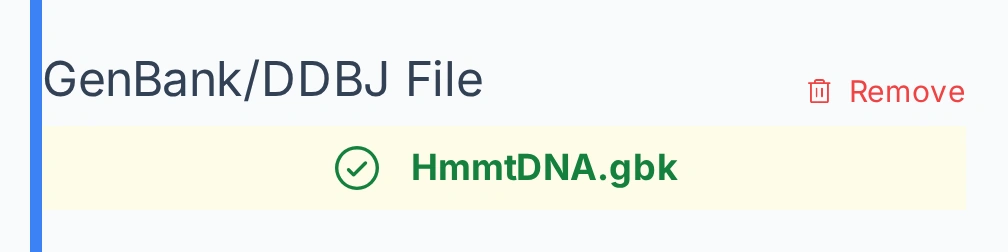
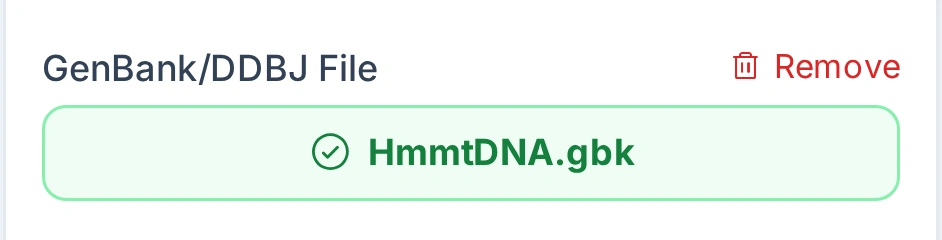
Rename three Gallery table rows to UI labels and retake two stale upload images
Rows 'Default CDS color' and 'Definition line: ...' in the BGC tutorial now use
the control paths shown in the UI, with the Playwright spec updated to match.
Retakes HmmtDNA_basic_circular manual-02-01 (old yellow upload zone) and
hepatoplasmataceae_orthogroup manual-02-01 (Applies on Generate pill).

Changed region(s): [[0.0308, 0.0, 0.9544, 1.0], [0.3079, 0.5542, 0.6773, 0.7583], [0.7696, 0.2042, 0.9544, 0.4083]]

diff --git a/tests/web/gallery-tutorial.playwright.spec.js b/tests/web/gallery-tutorial.playwright.spec.js
@@ -425,7 +425,7 @@ test('Gallery renders the aminoglycoside BGC tutorial and media', async ({ page 
     })
   ).toBeVisible();
   await expect(tutorialPanel.getByRole('row', { name: 'Palette orange' }).first()).toBeVisible();
-  await expect(tutorialPanel.getByRole('row', { name: 'Default CDS color #dddddd' })).toBeVisible();
+  await expect(tutorialPanel.getByRole('row', { name: 'Default Colors › CDS feature color #dddddd' })).toBeVisible();
   await expect(tutorialPanel.getByRole('row', { name: 'Min identity (%) 30 (default 0)' })).toBeVisible();
   await expect(
     tutorialPanel.getByRole('row', { name: 'File 5 › Record options › Reverse complement On' })
@@ -438,7 +438,7 @@ test('Gallery renders the aminoglycoside BGC tutorial and media', async ({ page 
     tutorialPanel.getByRole('row', { name: 'Features › Arrow Geometry › Shaft Width Ratio 0.6' }).first()
   ).toBeVisible();
   await expect(
-    tutorialPanel.getByRole('row', { name: 'Definition line: Accession 20; #7b7c7d' }).first()
+    tutorialPanel.getByRole('row', { name: 'Titles & Record Labels › Accession › Style 20; #7b7c7d' }).first()
   ).toBeVisible();
   await expect(tutorialPanel.getByText('Generate reuses the LOSAT results, so only the drawing changes.')).toBeVisible();
   const bgc0708MibigHref = 'https://mibig.secondarymetabolites.org/repository/BGC0000708.5/BGC0000708.gbk';
